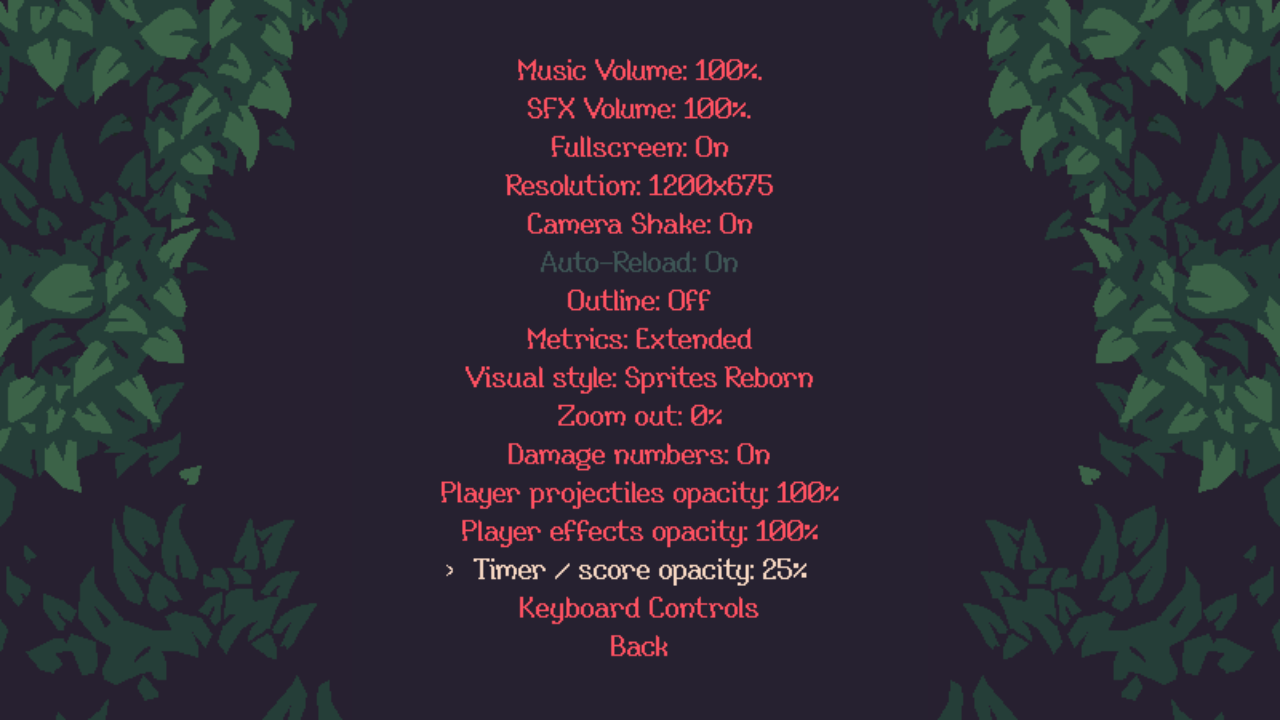
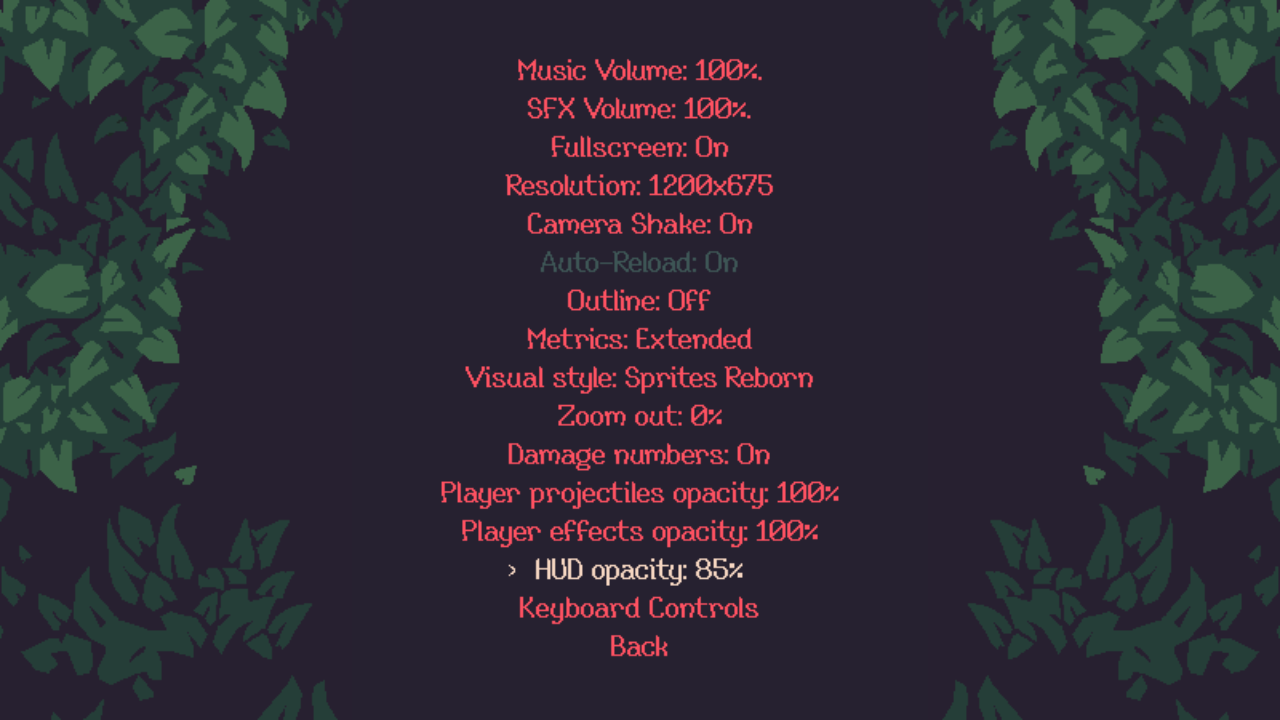
Apply a unified 85 percent gameplay HUD opacity with native controls

diff --git a/validation/HudOpacityChecks.cs b/validation/HudOpacityChecks.cs
@@ -1,0 +1,72 @@
+using System;
+using System.Linq;
+using System.Collections;
+using HarmonyLib;
+using TMPro;
+using UnityEngine;
+using UnityEngine.UI;
+using flanne;
+using flanne.Core;
+using Object=UnityEngine.Object;
+namespace TwentyMinutes.Modernization.Validation;
+public partial class RuntimeChecks
+{
+ IEnumerator ProbeHudRoots()
+ {
+  RunResume.Invalidate();yield return AchievementRun("Shana","RevolverData","20M_Forest",prepareRun:()=>Loadout.RuneSelection=new System.Collections.Generic.List<flanne.RuneSystem.RuneData>());yield return null;
+  var game=Object.FindObjectOfType<GameController>();StopFixtureSpawning();GameTimer.SharedInstance.Stop();
+  foreach(var view in game.hud.GetComponentInParent<Canvas>().rootCanvas.GetComponentsInChildren<RectTransform>(true).Where(t=>t.name=="FollowMouseAmmo"||t.name=="MoveControls"))
+   Log("hud-extra-root",string.Join("/",view.GetComponentsInParent<Transform>(true).Reverse().Select(t=>t.name))+" active="+view.gameObject.activeInHierarchy+" scripts="+string.Join(",",view.GetComponents<MonoBehaviour>().Select(b=>b.GetType().Name)));
+  SetPhase("DIAGNOSTIC_COMPLETE");Application.Quit(0);
+ }
+ IEnumerator CheckHudOpacity(bool skipMenu)
+ {
+  RunResume.Invalidate();if(!skipMenu)yield return PoiOpacityMenu();
+  yield return AchievementRun("Shana","RevolverData","20M_Forest",prepareRun:()=>Loadout.RuneSelection=new System.Collections.Generic.List<flanne.RuneSystem.RuneData>());
+  var game=Object.FindObjectOfType<GameController>();StopFixtureSpawning();GameTimer.SharedInstance.Stop();yield return AndroidPick(game,"MagicLens",game.playerXP.level);
+  while(StatsOverlay.Instance.Panel==null)yield return null;
+  var panel=StatsOverlay.Instance.Panel;var enemy=ElementEnemy((Vector2)PlayerController.Instance.transform.position+Vector2.right*3);enemy.GetComponent<MoveComponent2D>().enabled=false;var body=enemy.GetComponent<Rigidbody2D>();if(body!=null)body.constraints=RigidbodyConstraints2D.FreezeAll;
+  var native=game.hud.GetComponentInParent<Canvas>().rootCanvas.GetComponentsInChildren<RectTransform>(true);var cursorAmmo=native.Single(t=>t.name=="ShootingCursor").gameObject;var hints=native.Single(t=>t.name=="ControlsDisplay").gameObject;
+  var sprite=enemy.GetComponentInChildren<SpriteRenderer>();var nativeColor=sprite.color;var nativeMaterial=sprite.sharedMaterial;
+  // Exercise the real badge component's UI owner without changing the run's
+  // mode, progression or eligibility; natural Custom rules are unchanged.
+  game.gameObject.AddComponent(AccessTools.TypeByName("TwentyMinutes.Modernization.CustomRunLabel"));yield return null;
+  if(UnlockNotifications.Instance.Root==null)AccessTools.Method(typeof(UnlockNotifications),"Build").Invoke(UnlockNotifications.Instance,null);
+  Require(UnlockNotifications.Instance.Root.GetComponent<GameplayHudOpacity>()!=null,"achievement notification has its own HUD opacity owner");
+  var badge=GameObject.Find("CustomRunBadge");Require(badge!=null&&badge.GetComponent<GameplayHudOpacity>()!=null,"actual Custom badge UI has its own HUD opacity owner");
+  foreach(var text in Object.FindObjectsOfType<TMP_Text>().Where(t=>t.gameObject.activeInHierarchy&&t.canvasRenderer.GetInheritedAlpha()>.01f))Log("visible-hud-inventory",text.name+" type="+text.GetType().Name+" parent="+text.transform.parent.name+" nativeHUD="+text.transform.IsChildOf(game.hud.transform));
+  foreach(var size in new[]{new Vector2Int(1280,720),new Vector2Int(720,720)})
+  {
+   Screen.SetResolution(size.x,size.y,false);while(Screen.width!=size.x||Screen.height!=size.y)yield return null;FeedbackCameras();
+   var position=Camera.main.ViewportToWorldPoint(new Vector3(.05f,.5f,10));position.z=0;enemy.transform.position=position;
+   foreach(int value in new[]{80,85,90})
+   {
+    Plugin.Instance.HudOpacity.Value=value;yield return null;Canvas.ForceUpdateCanvases();yield return new WaitForEndOfFrame();float factor=value/100f;
+    foreach(var root in new[]{game.hud.gameObject,panel,badge,cursorAmmo,hints})
+    {
+     Require(root.GetComponentsInParent<GameplayHudOpacity>().Length==1,"HUD root has exactly one opacity owner: "+root.name);
+     var graphics=root.GetComponentsInChildren<Graphic>().Where(g=>g.isActiveAndEnabled&&g.color.a>.01f&&g.canvasRenderer.GetInheritedAlpha()>.01f).ToArray();
+     if(root==hints)
+     {
+      Require(Mathf.Abs(root.GetComponentInParent<GameplayHudOpacity>().GetComponent<CanvasGroup>().alpha-factor)<.002f,"control hints retain their native visibility beneath the shared opacity factor");
+      Log("controls-native-visibility","active="+root.activeInHierarchy+" nativeGroups="+string.Join(",",root.GetComponents<CanvasGroup>().Select(g=>g.alpha))+" drawnGraphics="+graphics.Length);
+     }
+     Require(graphics.Length>0||root==hints,"visible HUD graphics exist, or native control hints are intentionally hidden: "+root.name);
+     foreach(var graphic in graphics){float alpha=graphic.canvasRenderer.GetInheritedAlpha();Log("hud-inherited-alpha",size+" "+value+" "+graphic.name+"="+alpha);Require(alpha<=factor+.002f,"rendered HUD alpha stays within setting: "+graphic.name);}
+    }
+    var timer=game.hud.GetComponentsInChildren<TMP_Text>().Single(t=>t.name=="Timetext");var score=game.hud.GetComponentsInChildren<TMP_Text>().Single(t=>t.name=="RunCredits");
+    Require(Mathf.Abs(timer.canvasRenderer.GetInheritedAlpha()-factor)<.002f&&Mathf.Abs(score.canvasRenderer.GetInheritedAlpha()-factor)<.002f&&Mathf.Abs(StatsOverlay.Instance.Body.canvasRenderer.GetInheritedAlpha()-factor)<.002f,"timer, Score and stats inherit the factor once, without double fading");
+    Require(StatsOverlay.Instance.SkillIcons.Any(i=>i.gameObject.activeInHierarchy&&Mathf.Abs(i.canvasRenderer.GetInheritedAlpha()-factor)<.002f),"newly acquired skill icon inherits unified opacity");
+    Require(Object.FindObjectsOfType<ChestDirectionIndicator>().Any(i=>i.Marker!=null&&i.Marker.gameObject.activeInHierarchy&&Mathf.Abs(i.Marker.GetComponent<Image>().canvasRenderer.GetInheritedAlpha()-factor)<.002f),"actual POI content marker inherits unified opacity");
+    Require(sprite.color==nativeColor&&sprite.sharedMaterial==nativeMaterial&&sprite.GetComponentsInParent<GameplayHudOpacity>().Length==0,"enemy appearance and material remain unchanged under the HUD");
+    if(value==85)yield return PoiCapture("hud85-mob-under-metrics-"+size.x+".png");
+   }
+  }
+  Plugin.Instance.HudOpacity.Value=85;yield return null;PauseController.SharedInstance.Pause();game.ChangeState<PauseState>();
+  while(game.pauseMenu.GetComponent<CanvasGroup>().alpha<.999f)yield return null;
+  var background=game.pauseMenu.GetComponentsInChildren<Image>().First(i=>i.color.a>.99f);Require(background.GetComponentsInParent<GameplayHudOpacity>().Length==0&&background.canvasRenderer.GetInheritedAlpha()>.99f,"native pause menu background stays opaque and outside HUD opacity");
+  yield return Capture("hud85-opaque-pause.png");Click(game.pauseResumeButton);while(!(game.CurrentState is CombatState))yield return null;yield return null;
+  Require(Mathf.Abs(game.hud.GetComponentsInChildren<TMP_Text>().Single(t=>t.name=="Timetext").canvasRenderer.GetInheritedAlpha()-.85f)<.001f&&game.hud.GetComponent<CanvasGroup>().alpha>.99f,"resume restores85% HUD without taking the native visibility group's alpha");
+  ReturnFixtureActor(enemy.gameObject);yield return AchievementExit(game,false);SetPhase("PASS");Log("complete","Native HUD opacity controller/pointer/persistence, all three levels across square/16:9, new skills/POIs/badge/notification owners, unchanged mobs and opaque pause menus.");Application.Quit(0);
+ }
+}

diff --git a/src/NativeOptionsSettings.cs b/src/NativeOptionsSettings.cs
@@ -16,7 +16,7 @@ namespace TwentyMinutes.Modernization;
 // callbacks stay intact; added commands are handled before the native Back route.
 public sealed class NativeOptionsSettings:MonoBehaviour
 {
- Menu menu;RectTransform column,background;Button stats,style,zoom,numbers,projectiles,effects,clock;int statsIndex,styleIndex,zoomIndex,numbersIndex,projectilesIndex,effectsIndex,clockIndex;
+ Menu menu;RectTransform column,background;Button stats,style,zoom,numbers,projectiles,effects,hud;int statsIndex,styleIndex,zoomIndex,numbersIndex,projectilesIndex,effectsIndex,hudIndex;
  void OnEnable(){InputUser.onChange+=ControlsChanged;}
  void OnDisable(){InputUser.onChange-=ControlsChanged;}
  void ControlsChanged(InputUser user,InputUserChange change,InputDevice device)
@@ -36,10 +36,10 @@ public sealed class NativeOptionsSettings:MonoBehaviour
   view.numbers=view.Row(template,"DamageNumbersSetting","DamageNumbersSettingLabel",out view.numbersIndex);
   view.projectiles=view.Row(template,"ProjectileOpacitySetting","ProjectileOpacityLabel",out view.projectilesIndex);
   view.effects=view.Row(template,"EffectsOpacitySetting","EffectsOpacityLabel",out view.effectsIndex);
-  view.clock=view.Row(template,"ClockOpacitySetting","ClockOpacityLabel",out view.clockIndex);
+  view.hud=view.Row(template,"HudOpacitySetting","HudOpacityLabel",out view.hudIndex);
   int position=template.transform.GetSiblingIndex()+1;view.stats.transform.SetSiblingIndex(position);view.style.transform.SetSiblingIndex(position+1);view.zoom.transform.SetSiblingIndex(position+2);view.numbers.transform.SetSiblingIndex(position+3);
   view.projectiles.transform.SetSiblingIndex(position+4);view.effects.transform.SetSiblingIndex(position+5);
-  view.clock.transform.SetSiblingIndex(position+6);
+  view.hud.transform.SetSiblingIndex(position+6);
   var box=StatsOverlay.Box(owner.transform,"NativeOptionsOpaquePanel",new Vector2(.5f,.5f),new Vector2(.5f,.5f),Vector2.zero,Vector2.zero,new Color(.15f,.13f,.19f,1));
   view.background=box.GetComponent<RectTransform>();box.transform.SetAsFirstSibling();
  }
@@ -66,12 +66,12 @@ public sealed class NativeOptionsSettings:MonoBehaviour
   if(index==numbersIndex){Plugin.Instance.DamageNumbers.Value=!Plugin.Instance.DamageNumbers.Value;Plugin.Instance.Config.Save();NumbersLabel();return true;}
   if(index==projectilesIndex){Plugin.Instance.ProjectileOpacity.Value=Plugin.Instance.ProjectileOpacity.Value%100+25;Plugin.Instance.Config.Save();OpacityLabels();return true;}
   if(index==effectsIndex){Plugin.Instance.EffectsOpacity.Value=Plugin.Instance.EffectsOpacity.Value%100+25;Plugin.Instance.Config.Save();OpacityLabels();return true;}
-  if(index==clockIndex){Plugin.Instance.ClockOpacity.Value=Plugin.Instance.ClockOpacity.Value%100+25;Plugin.Instance.Config.Save();OpacityLabels();return true;}
+  if(index==hudIndex){Plugin.Instance.HudOpacity.Value=Plugin.Instance.HudOpacity.Value==90?80:Plugin.Instance.HudOpacity.Value+5;Plugin.Instance.Config.Save();OpacityLabels();return true;}
   return false;
  }
  void ZoomLabel(){zoom.GetComponentInChildren<TMP_Text>(true).text="Zoom out: "+Plugin.Instance.ZoomOut.Value+"%";}
  void NumbersLabel(){numbers.GetComponentInChildren<TMP_Text>(true).text="Damage numbers: "+(Plugin.Instance.DamageNumbers.Value?"On":"Off");}
- void OpacityLabels(){projectiles.GetComponentInChildren<TMP_Text>(true).text="Player projectiles opacity: "+Plugin.Instance.ProjectileOpacity.Value+"%";effects.GetComponentInChildren<TMP_Text>(true).text="Player effects opacity: "+Plugin.Instance.EffectsOpacity.Value+"%";clock.GetComponentInChildren<TMP_Text>(true).text="Timer / score opacity: "+Plugin.Instance.ClockOpacity.Value+"%";}
+ void OpacityLabels(){projectiles.GetComponentInChildren<TMP_Text>(true).text="Player projectiles opacity: "+Plugin.Instance.ProjectileOpacity.Value+"%";effects.GetComponentInChildren<TMP_Text>(true).text="Player effects opacity: "+Plugin.Instance.EffectsOpacity.Value+"%";hud.GetComponentInChildren<TMP_Text>(true).text="HUD opacity: "+Plugin.Instance.HudOpacity.Value+"%";}
  internal void Prepare()
  {
   // Create controls at the actual Show boundary. Clones made after the native
@@ -82,7 +82,7 @@ public sealed class NativeOptionsSettings:MonoBehaviour
   StatsOverlay.UpdateSettingsLabels();ColorfulStyle.Instance.Labels();ZoomLabel();NumbersLabel();OpacityLabels();
   // Native Menu.Hide fails to remove its Show-created lambdas. Keep each new
   // toggle's registration owned by the next Show, so reopening toggles once.
-  foreach(var button in new[]{stats,style,zoom,numbers,projectiles,effects,clock})
+  foreach(var button in new[]{stats,style,zoom,numbers,projectiles,effects,hud})
   {var entry=button.GetComponent<ButtonExtension>();entry.onClick.RemoveAllListeners();entry.onSelect.RemoveAllListeners();entry.onCancel.RemoveAllListeners();}
   var controls=column.GetComponentsInChildren<Button>(true).Where(b=>b.gameObject.activeSelf).ToArray();
   var layout=column.GetComponent<VerticalLayoutGroup>();layout.childAlignment=TextAnchor.MiddleCenter;

diff --git a/validation/PoiPulseChecks.cs b/validation/PoiPulseChecks.cs
@@ -33,11 +33,12 @@ public partial class RuntimeChecks
   while(title.mainMenu.GetComponent<CanvasGroup>().alpha<.999f)yield return null;
   yield return PadClick(pad,title.mainMenu.transform,Entries(title.mainMenu).Single(e=>e.button.GetComponentInChildren<TMP_Text>().text=="Options").button);
   while(!Active(title.optionsMenu)||title.optionsMenu.GetComponent<CanvasGroup>().alpha<.999f)yield return null;
-  var clock=title.optionsMenu.GetComponentsInChildren<Button>().Single(b=>b.name=="ClockOpacitySetting");Require((int)Plugin.Instance.ClockOpacity.DefaultValue==100,"clock opacity defaults100%");Plugin.Instance.ClockOpacity.Value=100;
-  for(int i=0;i<4;i++){int before=Plugin.Instance.ClockOpacity.Value;yield return PadClick(pad,title.optionsMenu.transform,clock);Require(Plugin.Instance.ClockOpacity.Value==before%100+25,"native controller cycles clock opacity: "+Plugin.Instance.ClockOpacity.Value);}
-  yield return MenuPointer(clock);Require(Plugin.Instance.ClockOpacity.Value==25,"native pointer selects clock25%");yield return Capture("timer-score-options.png");
+  var clock=title.optionsMenu.GetComponentsInChildren<Button>().Single(b=>b.name=="HudOpacitySetting");Require((int)Plugin.Instance.HudOpacity.DefaultValue==85,"HUD opacity defaults85%");Plugin.Instance.HudOpacity.Value=85;
+  for(int i=0;i<3;i++){int before=Plugin.Instance.HudOpacity.Value;yield return PadClick(pad,title.optionsMenu.transform,clock);Require(Plugin.Instance.HudOpacity.Value==(before==90?80:before+5),"native controller cycles HUD opacity: "+Plugin.Instance.HudOpacity.Value);}
+  yield return Capture("hud-opacity-options.png");yield return MenuPointer(clock);Require(Plugin.Instance.HudOpacity.Value==90,"native pointer selects HUD90%");
   Plugin.Instance.Config.Save();bool save=Plugin.Instance.Config.SaveOnConfigSet;Plugin.Instance.Config.SaveOnConfigSet=false;
-  try{Plugin.Instance.ClockOpacity.Value=100;Plugin.Instance.Config.Reload();Require(Plugin.Instance.ClockOpacity.Value==25,"real saved clock opacity reloads");}finally{Plugin.Instance.Config.SaveOnConfigSet=save;}
+  try{Plugin.Instance.HudOpacity.Value=80;Plugin.Instance.Config.Reload();Require(Plugin.Instance.HudOpacity.Value==90,"real saved HUD opacity reloads");}finally{Plugin.Instance.Config.SaveOnConfigSet=save;}
+  Plugin.Instance.HudOpacity.Value=85;Plugin.Instance.Config.Save();
   yield return SelectorPad(pad,GamepadButton.East);while(!Active(title.mainMenu))yield return null;
  }
  IEnumerator PoiTracking(GameController game)
@@ -84,7 +85,7 @@ public partial class RuntimeChecks
   north.SetActive(false);yield return null;Require(!marker.Marker.gameObject.activeSelf,"target disable immediately hides its marker");Object.Destroy(north);
   Screen.SetResolution(1280,720,false);while(Screen.width!=1280||Screen.height!=720)yield return null;
   var timer=game.hud.GetComponentsInChildren<TMP_Text>(true).Single(t=>t.name=="Timetext");var score=game.hud.GetComponentsInChildren<TMP_Text>(true).Single(t=>t.name=="RunCredits");var objective=game.hud.GetComponentsInChildren<TMP_Text>(true).Single(t=>t.name=="SurviveText");
-  yield return null;yield return new WaitForEndOfFrame();Require(timer.GetComponent<CanvasGroup>().alpha==.25f&&score.GetComponent<CanvasGroup>().alpha==.25f&&objective.GetComponent<CanvasGroup>().alpha==1,"only timer and Score use configured25% alpha");
+  yield return null;yield return new WaitForEndOfFrame();float alpha=Plugin.Instance.HudOpacity.Value/100f;Require(Mathf.Abs(timer.canvasRenderer.GetInheritedAlpha()-alpha)<.001f&&Mathf.Abs(score.canvasRenderer.GetInheritedAlpha()-alpha)<.001f&&Mathf.Abs(objective.canvasRenderer.GetInheritedAlpha()-alpha)<.001f,"timer, Score and objective inherit unified HUD opacity once");
  }
  IEnumerator CheckPoiPulse(string mode)
  {

diff --git a/release/build.py b/release/build.py
@@ -29,7 +29,7 @@ env.update(TEMP=str(args.scratch), TMP=str(args.scratch), MODERNIZATION_SCRATCH=
            DOTNET_CLI_HOME=str(args.scratch / 'dotnet'), DOTNET_GENERATE_ASPNET_CERTIFICATE='false')
 subprocess.run(['dotnet', 'build', str(ROOT / 'src/Modernization.csproj'), '-c', 'Release', '--no-restore',
                 '--nologo', '-v:minimal', '-nodeReuse:false', '-m:1', '-p:UseSharedCompilation=false'], cwd=ROOT, env=env, check=True)
-stage = args.output / '20-Minutes-Till-Dawn-Revamped-1.3.11'
+stage = args.output / '20-Minutes-Till-Dawn-Revamped-1.3.12'
 (stage / 'Mod').mkdir(parents=True)
 plugin = args.scratch / 'bin/Modernization/netstandard2.0/TwentyMinutes.Modernization.dll'
 shutil.copy2(plugin, stage / 'Mod' / plugin.name)
@@ -46,7 +46,7 @@ for name in ('README.md', 'LICENSE', 'INSTALL.md'):
 contract = asset_contract(args.prepared_assets)
 if len(contract) != 593:
     raise SystemExit('Prepared asset contract must contain the complete 593-file local runtime set, including affixes, achievement icons/catalog, source display/camera data and both gameplay sounds with provenance')
-release = {'product': '20 Minutes Till Dawn - Revamped', 'version': '1.3.11', 'source_commit': revision,
+release = {'product': '20 Minutes Till Dawn - Revamped', 'version': '1.3.12', 'source_commit': revision,
            'candidate': args.candidate, 'plugin_sha256': digest(plugin), 'assets': contract,
            'asset_delivery': 'Prepared locally from pinned owned inputs; no extracted game art/data in this archive'}
 (stage / 'RELEASE.json').write_text(json.dumps(release, indent=2) + '\n', encoding='utf8', newline='\n')
@@ -62,10 +62,10 @@ plugin_path = 'BepInEx/plugins/20MTDModernization/TwentyMinutes.Modernization.dl
 installed[plugin_path] = digest(plugin)
 if len(installed) != 614:
     raise SystemExit('Updater contract requires the complete 614-file owned payload')
-(stage / 'UPDATE.json').write_text(json.dumps({'schema': 2, 'minimum_updater': '0.2.0', 'save_epoch': 1, 'product': '20MTD-Revamped', 'version': '1.3.11',
+(stage / 'UPDATE.json').write_text(json.dumps({'schema': 2, 'minimum_updater': '0.2.0', 'save_epoch': 1, 'product': '20MTD-Revamped', 'version': '1.3.12',
     'source_commit': revision, 'files': installed, 'payload': {plugin_path: 'Mod/' + plugin.name}}, indent=2) + '\n', encoding='utf8', newline='\n')
 files = {p.relative_to(stage).as_posix(): digest(p) for p in sorted(stage.rglob('*')) if p.is_file()}
-(stage / 'PACKAGE.json').write_text(json.dumps({'version': '1.3.11', 'source_commit': revision, 'files': files}, indent=2), encoding='utf8', newline='\n')
+(stage / 'PACKAGE.json').write_text(json.dumps({'version': '1.3.12', 'source_commit': revision, 'files': files}, indent=2), encoding='utf8', newline='\n')
 archive = args.output / (stage.name + '.zip')
 with zipfile.ZipFile(archive, 'w', compression=zipfile.ZIP_DEFLATED, compresslevel=9) as package:
     for path in sorted(stage.rglob('*')):

diff --git a/validation/RuntimeChecks.cs b/validation/RuntimeChecks.cs
@@ -88,7 +88,7 @@ public partial class RuntimeChecks:MonoBehaviour
         // Chainloader may be invoked from InputSystem's static constructor. Start is the
         // lifecycle boundary after that constructor completes and before scene Updates.
         InputSystem.settings.backgroundBehavior=InputSettings.BackgroundBehavior.IgnoreFocus;
-        if(Environment.GetEnvironmentVariable("MODERNIZATION_TEST")?.StartsWith("weapon-familiarity-")==true||Environment.GetEnvironmentVariable("MODERNIZATION_TEST")?.StartsWith("specialize-")==true||Environment.GetEnvironmentVariable("MODERNIZATION_TEST")?.StartsWith("honeycomb-")==true||Environment.GetEnvironmentVariable("MODERNIZATION_TEST")?.StartsWith("poi-pulse-")==true)
+        if(Environment.GetEnvironmentVariable("MODERNIZATION_TEST")?.StartsWith("weapon-familiarity-")==true||Environment.GetEnvironmentVariable("MODERNIZATION_TEST")?.StartsWith("specialize-")==true||Environment.GetEnvironmentVariable("MODERNIZATION_TEST")?.StartsWith("honeycomb-")==true||Environment.GetEnvironmentVariable("MODERNIZATION_TEST")?.StartsWith("poi-pulse-")==true||Environment.GetEnvironmentVariable("MODERNIZATION_TEST")?.StartsWith("hud-opacity")==true)
         foreach(var device in InputSystem.devices.Where(d=>d.native).ToArray())
         {
             Log("fixture-device-isolation",device.deviceId+":"+device.name+" native="+device.native+" enabled="+device.enabled+" mouseHeld="+(device is Mouse physicalMouse?physicalMouse.leftButton.isPressed.ToString():"n/a"));
@@ -120,6 +120,8 @@ public partial class RuntimeChecks:MonoBehaviour
         Require(Application.persistentDataPath.Contains("CodexModernization"),"isolated persistent identity");
         GunSlot=NativeSelection.GunIndex;
         string testMode=Environment.GetEnvironmentVariable("MODERNIZATION_TEST");
+        if(testMode=="hud-opacity-inventory"){yield return ProbeHudRoots();yield break;}
+        if(testMode.StartsWith("hud-opacity")){yield return CheckHudOpacity(testMode!="hud-opacity");yield break;}
         if(testMode.StartsWith("poi-pulse-")){yield return CheckPoiPulse(testMode);yield break;}
         if(testMode.StartsWith("honeycomb-")){yield return CheckHoneycomb(testMode);yield break;}
         if(testMode.StartsWith("specialize-")){yield return CheckSpecialize(testMode);yield break;}

diff --git a/src/Plugin.cs b/src/Plugin.cs
@@ -16,7 +16,7 @@ using flanne.PerkSystem;
 using Object=UnityEngine.Object;
 
 namespace TwentyMinutes.Modernization;
-[BepInPlugin(Id,"20MTD Modernization","1.3.11")]
+[BepInPlugin(Id,"20MTD Modernization","1.3.12")]
 public class Plugin:BaseUnityPlugin
 {
     public const string Id="local.20mtd.modernization";
@@ -27,7 +27,7 @@ public class Plugin:BaseUnityPlugin
     public ConfigEntry<bool> ColorfulEnabled;
     public ConfigEntry<int> ZoomOut;
     public ConfigEntry<bool> DamageNumbers;
-    public ConfigEntry<int> ProjectileOpacity,EffectsOpacity,ClockOpacity;
+    public ConfigEntry<int> ProjectileOpacity,EffectsOpacity,HudOpacity;
     public static readonly Dictionary<string,string> Text=new Dictionary<string,string>();
     public static readonly Dictionary<GunData,Evolution> Guns=new Dictionary<GunData,Evolution>();
     public static bool TryMode(GunData data,out Evolution mode)
@@ -68,7 +68,7 @@ public class Plugin:BaseUnityPlugin
         gameObject.AddComponent<MenuFocusArrow>();
         ProjectileOpacity=Config.Bind("Enhancements","PlayerProjectileOpacity",100,new ConfigDescription("Player bullet/fireball/summon-projectile opacity percent; visual only. Hostile shots are unchanged.",new AcceptableValueList<int>(25,50,75,100)));
         EffectsOpacity=Config.Bind("Enhancements","PlayerEffectsOpacity",100,new ConfigDescription("Player ability/summon/explosion/trail/particle opacity percent; character, enemies, HUD and vision are unchanged.",new AcceptableValueList<int>(25,50,75,100)));
-        ClockOpacity=Config.Bind("Enhancements","TimerScoreOpacity",100,new ConfigDescription("Timer and Score opacity percent; other HUD elements are unchanged.",new AcceptableValueList<int>(25,50,75,100)));
+        HudOpacity=Config.Bind("Enhancements","GameplayHudOpacity",85,new ConfigDescription("Gameplay HUD opacity percent. Menus, mobs, attacks and vision retain their own appearance.",new AcceptableValueList<int>(80,85,90)));
     }
     public void LoggerForArtwork(string message)=>Logger.LogInfo(message);
     public static void SetField(object target,string field,object value)=>AccessTools.Field(target.GetType(),field).SetValue(target,value);

diff --git a/src/GameplayHudLayout.cs b/src/GameplayHudLayout.cs
@@ -14,10 +14,13 @@ public sealed class GameplayHudLayout:MonoBehaviour
  internal void Initialize(GameController game)
  {
   owner=game;
+  GameplayHudOpacity.WrapNative((RectTransform)game.hud.transform);
   // Native gameplay menus share this screen-space canvas. PixelPerfectCamera
   // changes its render viewport after Canvas layout, leaving stale dimensions
   // on square resizes/zoom. Screen UI must use the actual display directly.
   var canvas=game.hud.GetComponentInParent<Canvas>().rootCanvas;canvas.renderMode=RenderMode.ScreenSpaceOverlay;canvas.worldCamera=null;
+  GameplayHudOpacity.WrapNative((RectTransform)canvas.transform.Find("ShootingCursor"));
+  GameplayHudOpacity.WrapNative((RectTransform)canvas.transform.Find("ControlsDisplay"));
   var texts=game.hud.GetComponentsInChildren<TMP_Text>(true);var time=texts.Single(t=>t.name=="Timetext");var objective=texts.Single(t=>t.name=="SurviveText");
   StatsOverlay.Rect(time.gameObject,game.hud.transform,new Vector2(.5f,1),new Vector2(.5f,1),new Vector2(0,-48),new Vector2(300,42));
   time.fontSize=32;time.alignment=TextAlignmentOptions.Center;
@@ -32,7 +35,7 @@ public sealed class GameplayHudLayout:MonoBehaviour
   int value=ScoreCalculator.SharedInstance.GetScore().totalScore;
   if(value!=previousCredits){previousCredits=value;credits.text="Score: "+value.ToString("N0");}
   bool choosing=owner.CurrentState is PowerupMenuState||owner.CurrentState is DevilDealState||owner.CurrentState is ChestState||owner.CurrentState is ExplorationRewardState||owner.CurrentState is RuneRewardState;
-  for(int i=0;i<clock.Length;i++)clock[i].alpha=choosing?0:i<2?Plugin.Instance.ClockOpacity.Value/100f:1;
+  foreach(var group in clock)group.alpha=choosing?0:1;
  }
 }
 [HarmonyPatch(typeof(GameController),"Awake")]

diff --git a/src/GameplayHudOpacity.cs b/src/GameplayHudOpacity.cs
@@ -1,0 +1,21 @@
+using UnityEngine;
+namespace TwentyMinutes.Modernization;
+
+// Attach only to gameplay HUD roots. Children inherit one factor while their
+// native colors, animations and visibility owners remain unchanged.
+public sealed class GameplayHudOpacity:MonoBehaviour
+{
+ internal static void WrapNative(RectTransform target)
+ {
+  // HUDPanel already has a native CanvasGroup controlling show/hide/fades.
+  // A full-parent wrapper multiplies that alpha without taking its ownership.
+  var parent=(RectTransform)target.parent;int index=target.GetSiblingIndex();
+  var root=new GameObject("GameplayHudOpacity",typeof(RectTransform));var rect=root.GetComponent<RectTransform>();
+  rect.SetParent(parent,false);rect.anchorMin=Vector2.zero;rect.anchorMax=Vector2.one;rect.pivot=parent.pivot;rect.offsetMin=rect.offsetMax=Vector2.zero;rect.SetSiblingIndex(index);
+  target.SetParent(rect,false);root.AddComponent<GameplayHudOpacity>();
+ }
+ CanvasGroup group;
+ void Awake(){group=gameObject.AddComponent<CanvasGroup>();Apply();}
+ void LateUpdate()=>Apply();
+ void Apply(){group.alpha=Plugin.Instance.HudOpacity.Value/100f;}
+}

diff --git a/src/UnlockNotifications.cs b/src/UnlockNotifications.cs
@@ -33,6 +33,7 @@ public class UnlockNotifications:MonoBehaviour
   canvas.GetComponent<Canvas>().renderMode=RenderMode.ScreenSpaceOverlay;canvas.GetComponent<Canvas>().sortingOrder=22;
   var scaler=canvas.GetComponent<CanvasScaler>();scaler.uiScaleMode=CanvasScaler.ScaleMode.ScaleWithScreenSize;scaler.referenceResolution=new Vector2(1280,720);scaler.matchWidthOrHeight=.5f;
   Root=new GameObject("UnlockNotice",typeof(RectTransform));StatsOverlay.Rect(Root,canvas.transform,new Vector2(.5f,1),new Vector2(.5f,1),new Vector2(0,-46),new Vector2(560,80));
+  Root.AddComponent<GameplayHudOpacity>();
   var iconObject=new GameObject("ContentIcon",typeof(RectTransform),typeof(Image));StatsOverlay.Rect(iconObject,Root.transform,new Vector2(0,1),new Vector2(0,1),new Vector2(4,-8),new Vector2(44,44));
   Icon=iconObject.GetComponent<Image>();Icon.preserveAspect=true;Icon.raycastTarget=false;
   Label=StatsOverlay.Text(Root.transform,"UnlockNameAndGoal",font,"",18,new Vector2(60,-4),new Vector2(496,76));

diff --git a/installer/install.py b/installer/install.py
@@ -13,7 +13,7 @@ import zipfile
 
 HERE = pathlib.Path(__file__).resolve().parent
 ROOT = HERE.parent
-VERSION = '1.3.11'
+VERSION = '1.3.12'
[1 lines of base64/hex data omitted]
 MOD = pathlib.PurePosixPath('BepInEx/plugins/20MTDModernization')
 
@@ -88,7 +88,7 @@ def download(pin, work, name):
     path.parent.mkdir(exist_ok=True)
     if not path.exists():
         writing = path.with_name(path.name + '.writing')
-        with urllib.request.urlopen(urllib.request.Request(pin['url'], headers={'User-Agent': '20MTD-Revamped/1.3.11'})) as response, writing.open('wb') as output:
+        with urllib.request.urlopen(urllib.request.Request(pin['url'], headers={'User-Agent': '20MTD-Revamped/1.3.12'})) as response, writing.open('wb') as output:
             shutil.copyfileobj(response, output)
         if digest(writing) != pin['sha256']:
             raise ValueError('Downloaded dependency digest mismatch: ' + name)

diff --git a/src/StatsOverlay.cs b/src/StatsOverlay.cs
@@ -52,6 +52,7 @@ public class StatsOverlay:MonoBehaviour
   Panel=new GameObject("LiveStatsHUD",typeof(RectTransform));Rect(Panel,canvas.transform,Vector2.zero,Vector2.zero,Vector2.zero,new Vector2(1280,720));
   var root=Panel.GetComponent<RectTransform>();root.anchorMin=Vector2.zero;root.anchorMax=Vector2.one;root.offsetMin=root.offsetMax=Vector2.zero;
   Panel.AddComponent<PickupDirectionLayout>();
+  Panel.AddComponent<GameplayHudOpacity>();
   attributes=Rect(new GameObject("Attributes",typeof(RectTransform)),Panel.transform,new Vector2(0,.5f),new Vector2(0,.5f),new Vector2(16,0),new Vector2(302,360));
   foreach(string key in new[]{"Haste","Evasive","SummonMastery","Trainer","PowerShot","RapidFire","QuickHands","DoubleShot","Sniper","BigShot","Penetration","RubberBullets"})
   {

diff --git a/src/CustomMode.cs b/src/CustomMode.cs
@@ -186,6 +186,7 @@ class CustomRunLabel:MonoBehaviour
  void Start()
  {
   root=new GameObject("CustomRunBadge",typeof(RectTransform),typeof(Canvas),typeof(CanvasScaler));root.transform.SetParent(transform,false);
+  root.AddComponent<GameplayHudOpacity>();
   root.GetComponent<Canvas>().renderMode=RenderMode.ScreenSpaceOverlay;root.GetComponent<Canvas>().sortingOrder=19;
   var scaler=root.GetComponent<CanvasScaler>();scaler.uiScaleMode=CanvasScaler.ScaleMode.ScaleWithScreenSize;scaler.referenceResolution=new Vector2(1280,720);
   var font=Resources.FindObjectsOfTypeAll<TMPro.TMP_Text>().First(t=>t.font!=null&&t.gameObject.scene.IsValid()).font;
